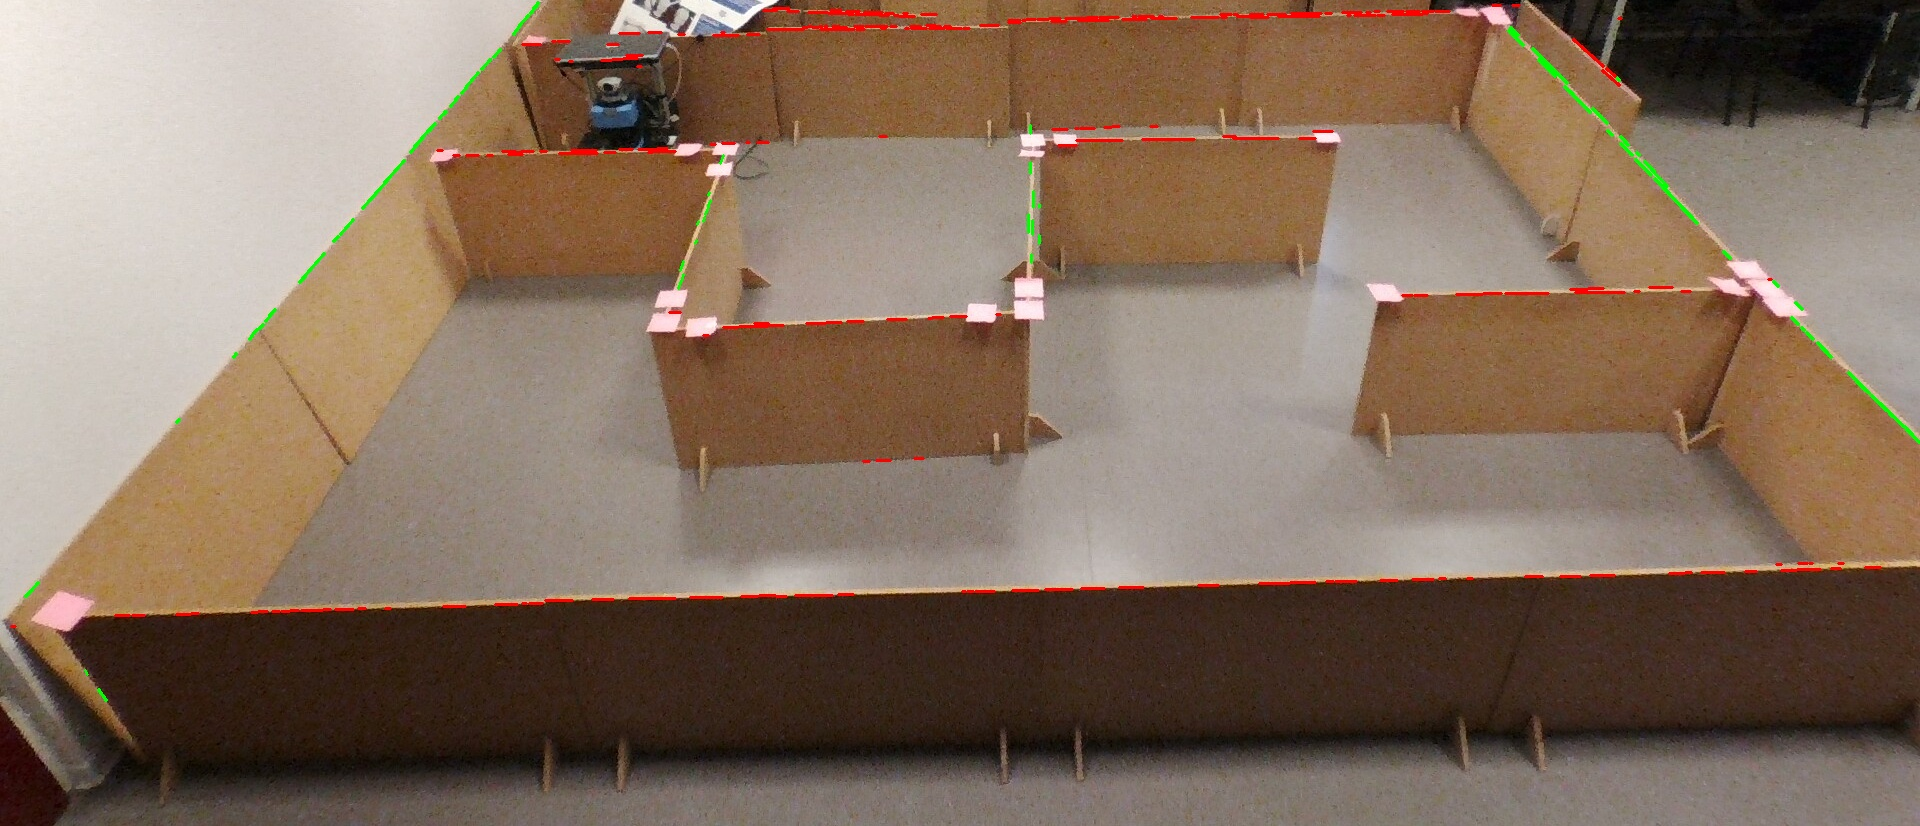
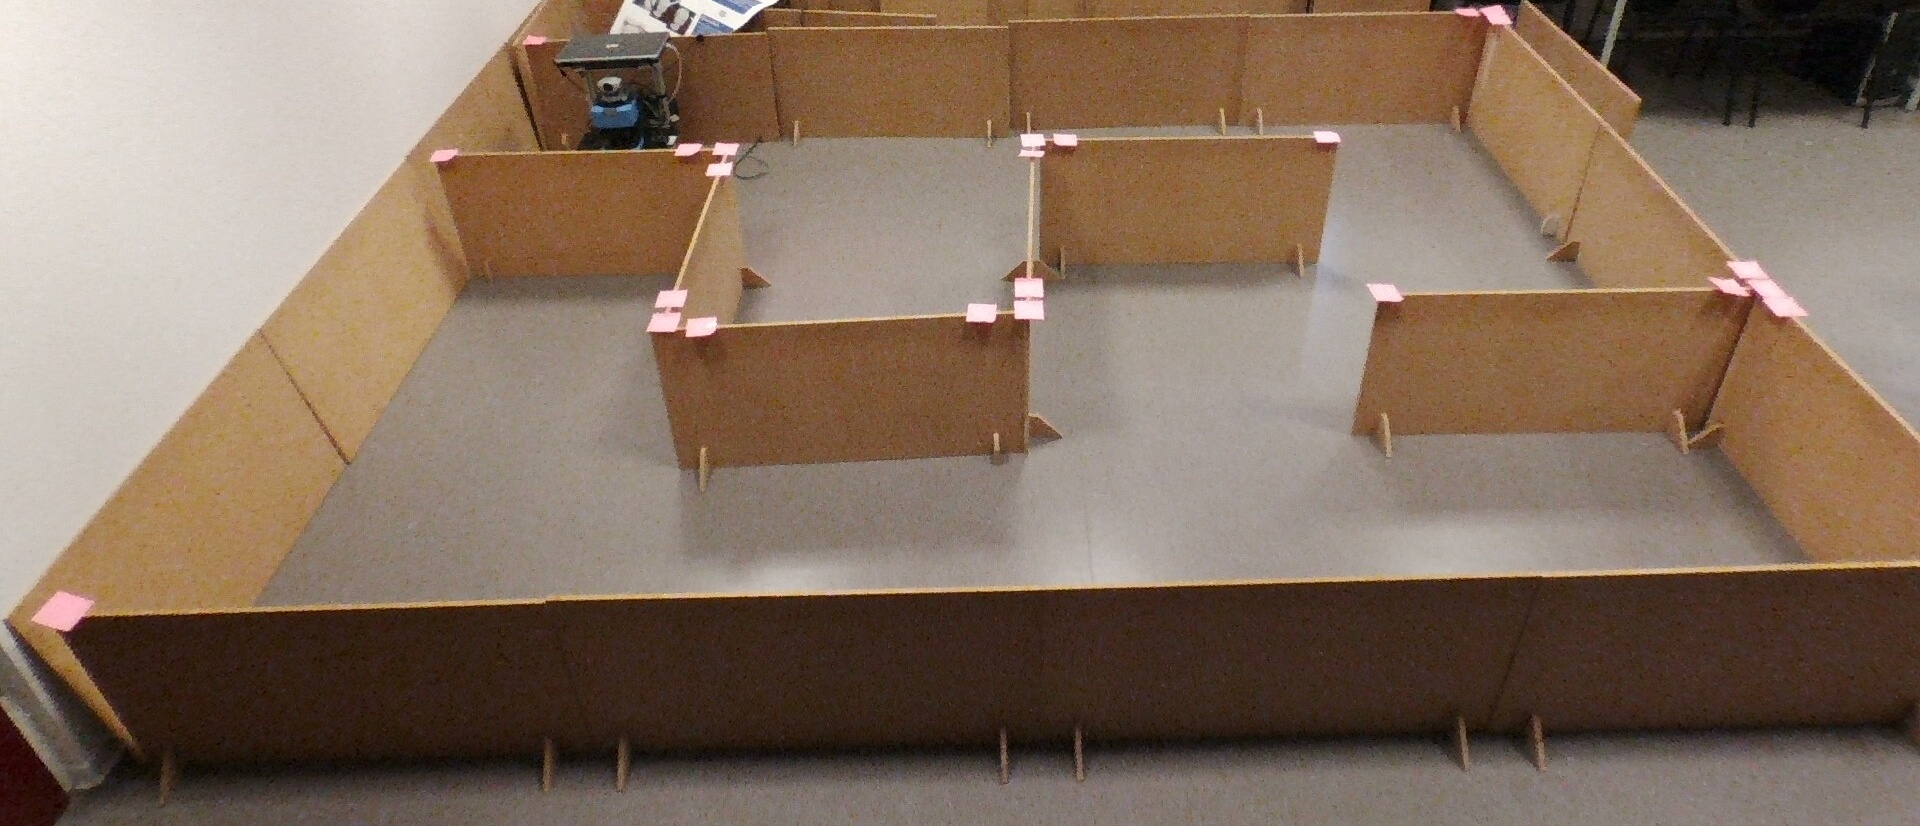
w

diff --git a/temp_v/test2.py b/temp_v/test2.py
@@ -5,12 +5,53 @@ from matplotlib import pyplot as plt
 from operator import itemgetter
 import statistics
 
+# TIME MEASUREMENT
 time0 = time.time()
 
+# PARAMETERS
+img_path = 'in.jpg'
 
-def split_dict_at_gaps(input, min_gap_size=5, key=0):
+edges_lower_thresh = 130
+edges_upper_thresh = 290
+
+lines_1 = 1
+lines_2 = 3.141/300
+lines_3 = 80
+lines_4 = 120
+lines_5 = 3
+
+x_max_gap_x = 10
+x_max_gap_y = 110
+
+y_min_gap_y = 50
+
+min_group_size = 7
+
+# COLORS
+colors = [(255,0,0),
+		  (0,255,0),
+		  (0,0,255),
+		  (255,255,0),
+		  (0,255,255),
+		  (255,0,255),
+		  (192,192,192),
+		  (128,128,128),
+		  (128,0,0),
+		  (128,128,0),
+		  (0,128,0),
+		  (128,0,128),
+		  (0,128,128),
+		  (0,0,128),
+		  (139,0,0),
+		  (220,20,60),
+		  (255,69,0),
+		  (0,100,0)]
+
+
+# split dict at gaps with a min size
+def split_dict_at_gaps(input, min_gap_size, key):
 	input = sorted(input, key=itemgetter(key))
-	groups = [] # arr = [[(30, 30, 30, 30), (...), (...)][(...), (...)]]
+	groups = []
 	for i in range(len(input)):
 		if groups:
 			x = input[i][key]
@@ -22,58 +63,61 @@ def split_dict_at_gaps(input, min_gap_size=5, key=0):
 			groups.append([input[i]])
 	return groups
 
-
-img = cv2.imread('in.jpg')
-
+# load/create images
+img = cv2.imread(img_path)
 gray = cv2.cvtColor(img, cv2.COLOR_BGR2GRAY)
-edges = cv2.Canny(gray, 130, 290)
+edges = cv2.Canny(gray, edges_lower_thresh, edges_upper_thresh)
+lines = cv2.HoughLinesP(edges, lines_1, lines_2, lines_3, lines_4, lines_5)
 
-lines = cv2.HoughLinesP(edges, 1, 3.141/300, 80, 120, 3)
-
-l = np.zeros(img.shape, dtype=np.uint8)
-
-
+# sort lines by direction
 lines_x = []
 lines_y = []
 for line in lines:
 	for x1,y1,x2,y2 in line:
 		if abs(x1-x2) > abs(y1-y2):
-			cv2.line(img,(x1,y1),(x2,y2),(0,0,255),2)
-			# cv2.line(l,(x1,y1),(x2,y2),(0,0,255),2)
 			lines_x.append((x1, y1, x2, y2))
 		else:
-			cv2.line(img,(x1,y1),(x2,y2),(0,255,0),2)
-			# cv2.line(l,(x1,y1),(x2,y2),(0,255,0),2)
 			lines_y.append((x1, y1, x2, y2))
 
 
-# X
-x_sorter = 1
+# group x-lines
+final_lines_x = []
 
-grouped_x = split_dict_at_gaps(lines_x, 10, x_sorter)
+# split on y-axis
+grouped_x = split_dict_at_gaps(lines_x, x_max_gap_x, 1)
+
+# remove too small groups
 n_grouped_x = []
 for g in grouped_x:
-	if len(g) > 10:
+	if len(g) > min_group_size:
 		n_grouped_x.append(g)
 grouped_x = n_grouped_x
 
-colors = [
-			(255,0,0),
-			(0,255,0),
-			(0,0,255),
-			(255,255,0),
-			(0,255,255),
-			(255,0,255),
-			(192,192,192),
-			(128,128,128),
-			(128,0,0),
-			(128,128,0),
-			(0,128,0),
-			(128,0,128),
-			(0,128,128),
-			(0,0,128)
-		]
+# split on x-axis
+n_grouped_x = []
+for group in grouped_x:
+	t_group = sorted(group, key=itemgetter(0))
+	n_group = []
+	last0 = -x_max_gap_y*10
+	for e in t_group:
+		x1,y1,x2,y2 = e
+		if abs(last0-x1) > x_max_gap_y:
+			n_group.append([e])
+		else:
+			n_group[-1].append(e)
+		last0 = x2
+	n_grouped_x.append(n_group)
+grouped_x = n_grouped_x
 
+# remove too small groups
+n_grouped_x = []
+for g in grouped_x:
+	for e in g:
+		if len(e) > min_group_size:
+			n_grouped_x.append(e)
+grouped_x = n_grouped_x
+
+# create group-lines
 for i in range(len(grouped_x)):
 	mipt = min(grouped_x[i], key=itemgetter(0))
 	mapt = max(grouped_x[i], key=itemgetter(0))
@@ -81,52 +125,71 @@ for i in range(len(grouped_x)):
 
 	l_start = mipt[0]
 	l_len = abs(mipt[0]-mapt[0])
-	l_hei = my
 
-	cv2.line(l,(l_start,l_hei),(l_start+l_len,l_hei),colors[i],2)
+	final_lines_x.append((l_start, my, l_start+l_len, my))
 	
 
-# Y
-y_sorter = 1
+# group y-lines
+final_lines_y = []
 
-grouped_y = split_dict_at_gaps(lines_y, 50, key=2)
+# split on x-axis
+grouped_y = split_dict_at_gaps(lines_y, y_min_gap_y, key=2)
+
+# remove too small groups
 n_grouped_y = []
 for g in grouped_y:
-	if len(g) > 5:
+	if len(g) > min_group_size:
 		n_grouped_y.append(g)
 grouped_y = n_grouped_y
 
-colors = [
-			(255,0,0),
-			(0,255,0),
-			(0,0,255),
-			(255,255,0),
-			(0,255,255),
-			(255,0,255),
-			(192,192,192),
-			(128,128,128),
-			(128,0,0),
-			(128,128,0),
-			(0,128,0),
-			(128,0,128),
-			(0,128,128),
-			(0,0,128),
-			(139,0,0),
-			(220,20,60),
-			(255,69,0),
-			(0,100,0)
-		]
-
+# create group-lines
 for i in range(len(grouped_y)):
-	for e in grouped_y[i]:
-		x1, y1, x2, y2 = e
-		cv2.line(l,(x1,y1),(x2,y2),colors[i + len(grouped_x)+2],2)
-	
+	min_x = min(grouped_y[i], key=itemgetter(0))
+	max_x = max(grouped_y[i], key=itemgetter(0))
+	min_y = min(grouped_y[i], key=itemgetter(1))[1]
+	max_y = max(grouped_y[i], key=itemgetter(3))[3]
 
+	if min_x[1] > max_x[1]:
+		o_min_x = min_x[0]
+		min_x = max_x[0]
+		max_x = o_min_x
+	else:
+		min_x = min_x[0]
+		max_x = max_x[0]
 
+	final_lines_y.append((min_x,min_y, max_x, max_y))
 
+# get outer lines
+line_y_min = min(final_lines_y, key=itemgetter(0))
+line_y_max = max(final_lines_y, key=itemgetter(2))
+line_x_min = min(final_lines_x, key=itemgetter(1))
+line_x_max = max(final_lines_x, key=itemgetter(3))
+
+# find the bot
+
+# draw the lines
+print("X-Lines:", final_lines_x)
+print("Y-Lines:", final_lines_y)
+
+l = np.zeros(img.shape, dtype=np.uint8)
+
+for i in range(len(final_lines_x)):
+	x1, y1, x2, y2 = final_lines_x[i]
+	cv2.line(l, (x1,y1), (x2,y2), colors[i], 2)
+
+for i in range(len(final_lines_y)):
+	x1, y1, x2, y2 = final_lines_y[i]
+	cv2.line(l, (x1,y1), (x2,y2), colors[i+len(final_lines_x)], 2)
+
+cv2.line(l, line_y_min[:2], line_y_min[2:], (255, 255, 255), 2)
+cv2.line(l, line_y_max[:2], line_y_max[2:], (255, 255, 255), 2)
+cv2.line(l, line_x_min[:2], line_x_min[2:], (255, 255, 255), 2)
+cv2.line(l, line_x_max[:2], line_x_max[2:], (255, 255, 255), 2)
+
+# save the images
 cv2.imwrite('image.jpg',img)
 cv2.imwrite('lines.jpg',l)
 cv2.imwrite('edges.jpg',edges)
 
+# print timing
 print("Took {} seconds.".format(time.time() - time0))

diff --git a/temp_v/test5.py b/temp_v/test5.py
@@ -43,9 +43,6 @@ y_sorter = 0
 x_sorter = 1
 lines_y = sorted(lines_y, key=itemgetter(y_sorter))
 lines_x = sorted(lines_x, key=itemgetter(x_sorter))
-print(lines_x)
-
-
 
 cv2.imwrite('image.jpg',img)
 cv2.imwrite('lines.jpg',l)
